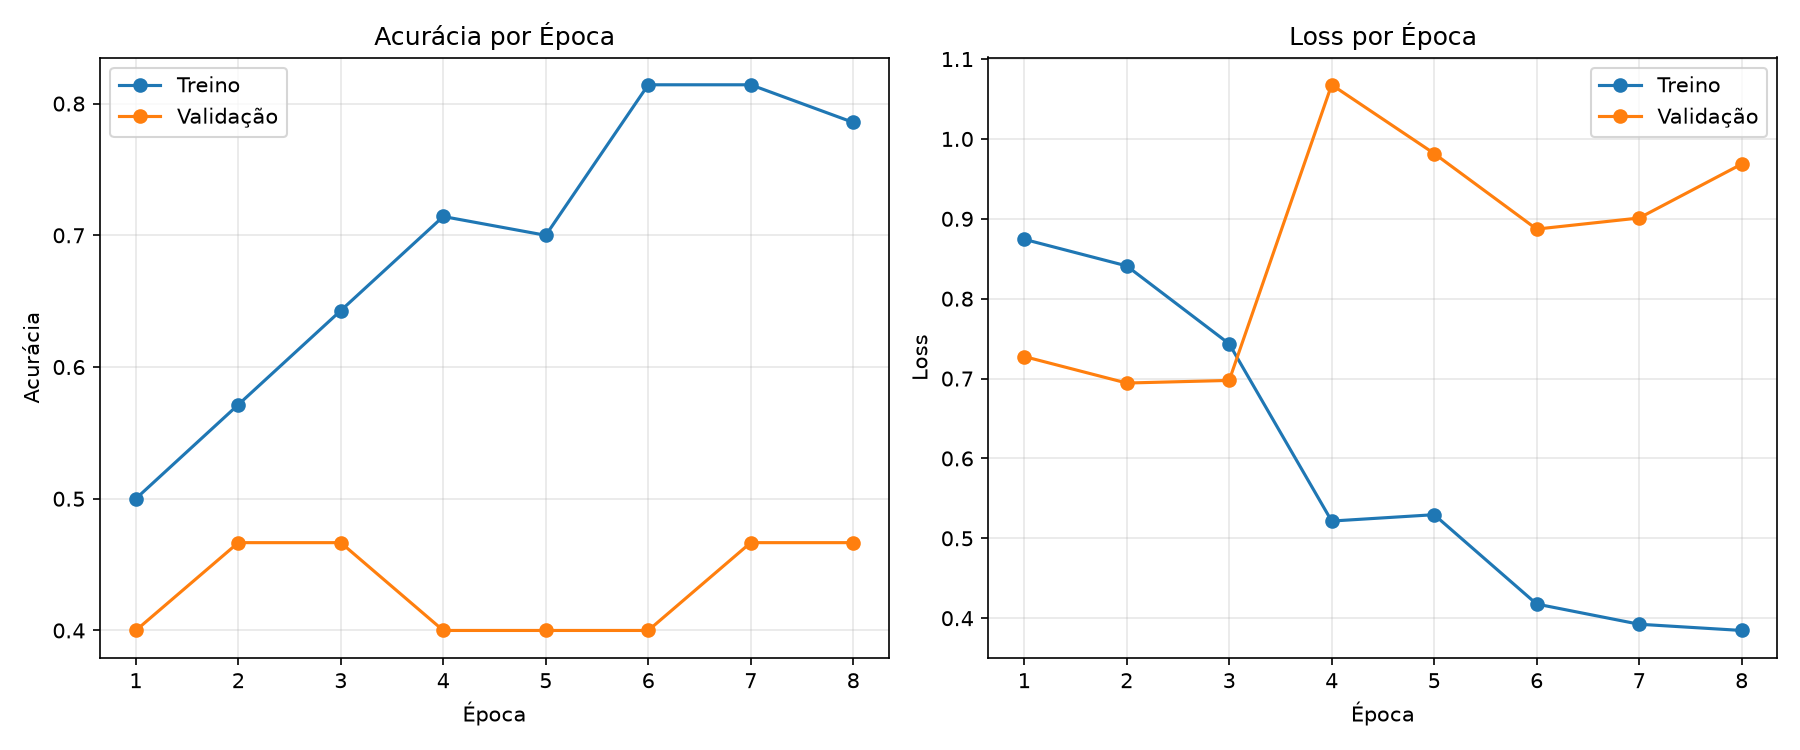
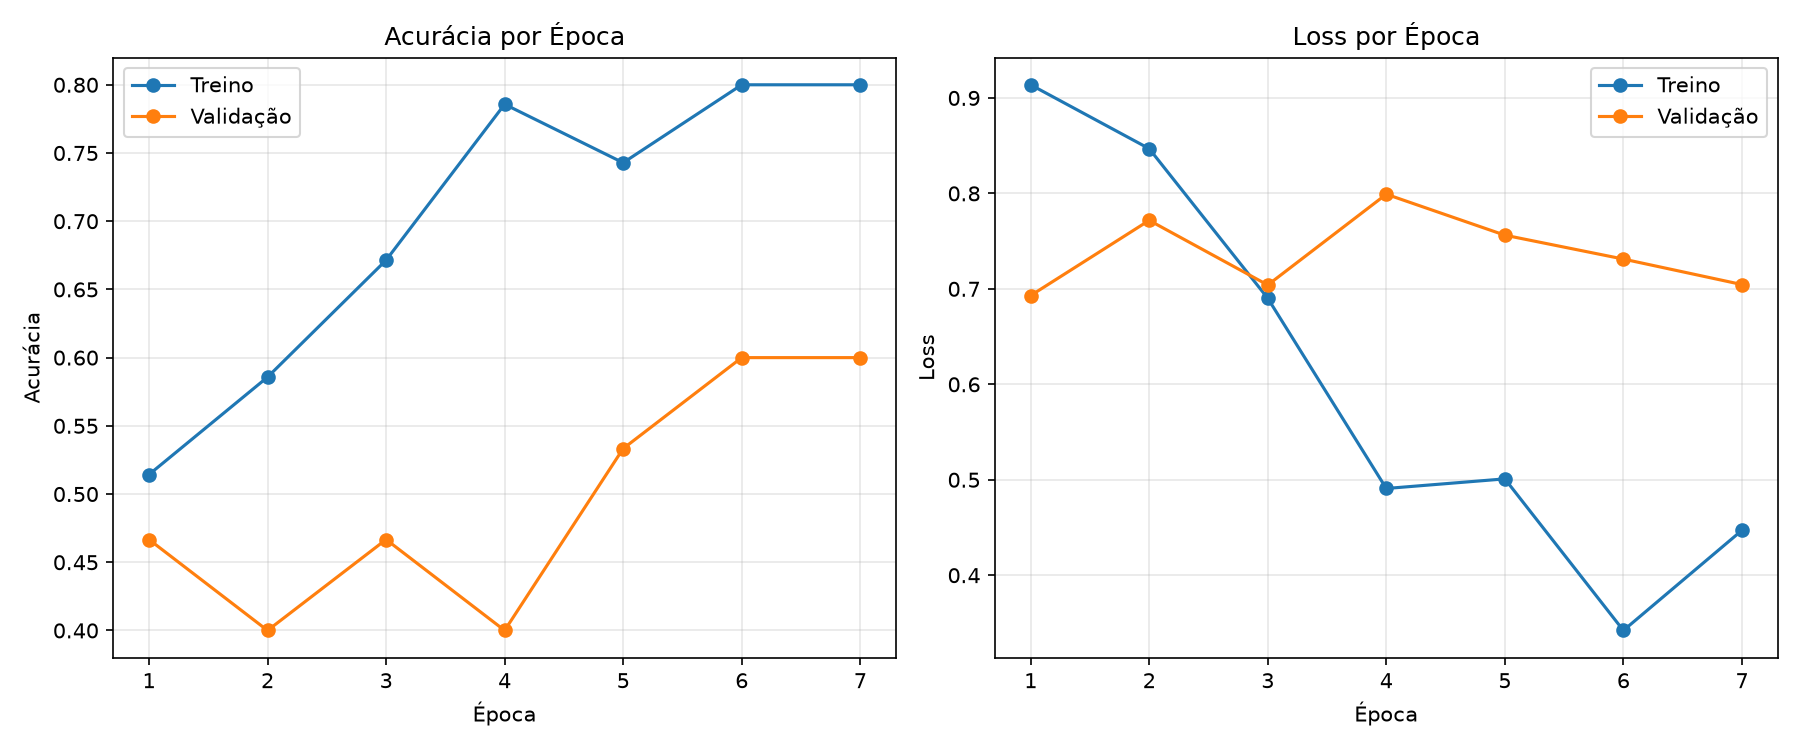
README atualizado

diff --git a/train_model.py b/train_model.py
@@ -6,6 +6,7 @@ import torch.optim as optim
 import numpy as np
 import pandas as pd
 import matplotlib.pyplot as plt
+from collections import Counter
 import seaborn as sns
 from tqdm import tqdm
 from torch.utils.data import DataLoader, random_split
@@ -16,7 +17,6 @@ from sklearn.metrics import (
     recall_score,
     f1_score,
     confusion_matrix,
-    roc_auc_score,
     classification_report,
 )
 
@@ -80,6 +80,13 @@ def load_dataset(path):
 
     size_dataset = len(base_dataset)
 
+    contagem = Counter(base_dataset.targets)
+    print("Distribuição de classes no dataset completo:")
+
+    for idx, nome in enumerate(class_names):
+        print(f" {nome}: {contagem[idx]} imagens")
+    print(f" Total: {size_dataset} imagens\n")
+
     # Tamanho das divisões: treino(70%), validação(15%), teste(15%)
     train_size = int(0.7 * size_dataset)
     val_size = int(0.15 * size_dataset)
@@ -101,7 +108,6 @@ def load_dataset(path):
     print(f"Treino: {len(train_ds)} | Validação: {len(val_ds)} | Teste: {len(test_ds)}")
 
     return train_loader, val_loader, test_loader, class_names
-
 
 def show_images(loader, class_names):
     images, labels = next(iter(loader))
@@ -258,8 +264,7 @@ def test_model(model, loader):
         "Accuracy": accuracy_score(y_true, y_pred),
         "Precision": precision_score(y_true, y_pred),
         "Recall": recall_score(y_true, y_pred),
-        "F1": f1_score(y_true, y_pred),
-        "AUC": roc_auc_score(y_true, y_score),
+        "F1": f1_score(y_true, y_pred)
     }
 
     return metrics, y_true, y_pred, y_score
@@ -327,7 +332,7 @@ def plot_confusion(y_true, y_pred, class_names):
 if __name__ == "__main__":
 
     train_loader, val_loader, test_loader, class_names = load_dataset("dataset/")
-    show_images(train_loader, class_names)
+    # show_images(val_loader, class_names)
 
     model = CNN(num_classes=1).to(DEVICE)
 
@@ -352,5 +357,4 @@ if __name__ == "__main__":
 
     plot_confusion(y_true, y_pred, class_names)
 
-    print("Modelo salvo em models/cnn_goat_sheep.pth"
-    )
+    print("Modelo salvo em models/cnn_goat_sheep.pth")

diff --git a/README.md b/README.md
@@ -80,26 +80,21 @@ goat-sheep-cnn-classifier/
 │   └── sheep/
 │       ├── img001.jpg
 │       └── ...
-│
-├── src/
-
-│   ├── train_model.py
-│   ├── test_model.py
-│
-
+|
+├── models/
+|
+│   └── cnn_goat_sheep.pth
+|
 ├── results/
-
+|
 │   ├── confusion_matrix.png
 │   ├── training_history.png
-
-
-├── models/
-
-│   └── cnn_goat_sheep.pth
-
-
+|
+│   train_model.py
+│   test_model.py
+│
 ├── requirements.txt
-
+|
 └── README.md
 
 ```